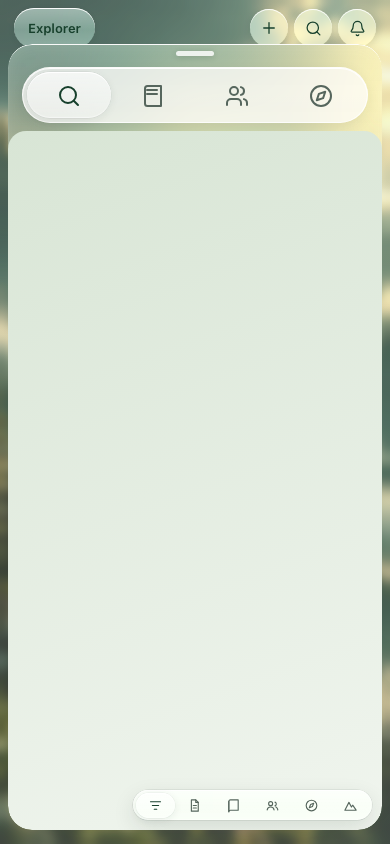
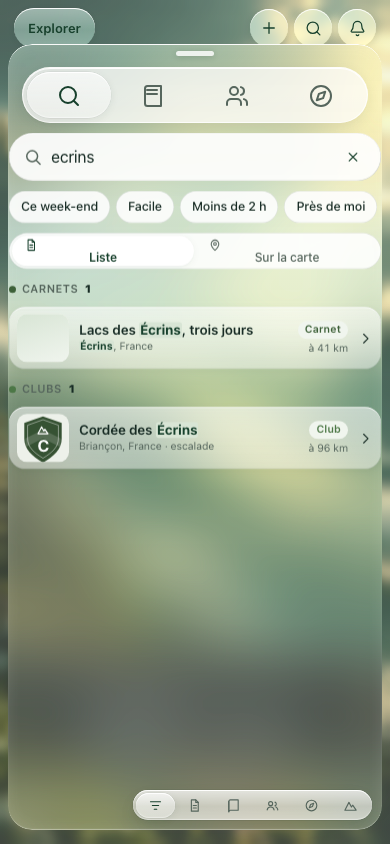
fix(communaute-v2): résultats de recherche visibles et bascule carte cliquable (FID-001, P1)
`.lkdv-cv2x-cover-fallback` (position:absolute; inset:0) s'échappait de sa vignette
52×48 car `.lkdv-cv2x-search-cover` n'établissait pas de bloc conteneur : l'aplat de
repli s'étirait sur tout le corps du tiroir et masquait les groupes/compteurs/résultats
de la Recherche, en interceptant aussi la bascule « Sur la carte ».
Correctif : `position: relative` sur `.lkdv-cv2x-search-cover`.
Vérifié : captures 390×844 `explorer-recherche-resultats` (Carnets 1, Clubs 1 visibles)
et `explorer-recherche-sur-la-carte` (carte + repère + légende) + e2e 5a/5b/5c/5d/5e/1b verts.

diff --git a/src/features/community/v2/explore/explore-v2.css b/src/features/community/v2/explore/explore-v2.css
@@ -988,6 +988,11 @@
 }
 
 .lkdv-cv2x-search-cover {
+  /* Conteneur du repli de couverture (`.lkdv-cv2x-cover-fallback` est en
+     `position:absolute; inset:0`) : sans position, le repli s'échappait de la
+     vignette et s'étirait sur tout le corps du tiroir, masquant les résultats
+     de recherche et interceptant la bascule « Sur la carte ». */
+  position: relative;
   width: 52px;
   height: 48px;
   overflow: hidden;
